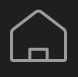
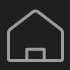
dark theme added

diff --git a/home.html b/home.html
@@ -24,20 +24,25 @@
     </video></a></a>
 
 
-  <div class="footer" onclick="setHomeBallance()">
+  <div class="footer" >
     <div class="menu" >
       <br>
-      <img src="home icon green.jpg" alt="home">
-      <p class="amount" id="footer-ballance">$BALLANCE</p>
+      <img src="home green dark.jpg" alt="home" onclick="darkTheme(whiteFooter2)">
+      <p class="amount" id="footer-ballance" style="color: #52CD86;">$BALLANCE</p>
     </div>
-
-   
     
-    
-      <img src="my bets icon.jpg" alt="my bets" class="my-bets">
+      <img src="my bets dark green.jpg" alt="my bets" class="my-bets" onclick="setHomeBallance()">
       
-  
+  </div>
+
+  <div class="footer white-theme2" style="background-color: #DDDDDD; ">
+    <div class="menu" >
+      <br>
+      <img src="home green light.jpg" alt="home"  onclick="darkTheme(whiteFooter2)">
+      <p class="amount" id="footer-ballance2" style="color: #126D52;">$BALLANCE</p>
+    </div>
     
+      <img src="my bets light white.jpg" alt="my bets" class="my-bets" onclick="setHomeBallance()">
       
   </div>
   <script src="generator.js"></script>

diff --git a/generator.js b/generator.js
@@ -23,6 +23,7 @@ let newTeamTwoScore = document.getElementById('event-two-score-gen')
 
 let balance = document.getElementById('Account-balance');
 let footerBallance = document.getElementById('footer-ballance');
+let footerBallance2 = document.getElementById('footer-ballance2');
 
 let balanceValue = parseFloat(balance.innerText)
 let settledEventName1s = document.getElementById('settled1')
@@ -191,6 +192,12 @@ function addBackgroundColor(variable){
   variable.classList.toggle("green-background")
 }
 
+let whiteFooter = document.querySelector('.white-theme')
+let whiteFooter2 = document.querySelector('.white-theme2')
+
+function darkTheme(variable){
+  variable.classList.toggle("dark-theme")
+}
    
 
    function setHomeBallance(){
@@ -199,6 +206,7 @@ function addBackgroundColor(variable){
     let home = document.getElementById('Account-balance')
     home.innerHTML = ` $${balance}`
     footerBallance.innerHTML = ` $${balance}`
+    footerBallance2.innerHTML =  ` $${balance}`
    }
 
    function settledBallance(){

diff --git a/index.html b/index.html
@@ -304,15 +304,28 @@
     <div class="menu">
       
       <br>
-      <img src="home icon green.jpg" alt="home">
+      <img src="home icon green.jpg" alt="home" onclick="darkTheme(whiteFooter)">
       <p class="amount" id="footer-ballance">$BALLANCE</p>
+    
+    </div>
+    
+      <img src="my bets icon.jpg" alt="my bets" class="my-bets">
+      
+  </div>
+
+  <div class="footer white-theme" style="background-color: #DDDDDD; ">
+    <div class="menu">
+      
+      <br>
+      <img src="home white light.jpg" alt="home"  onclick="darkTheme(whiteFooter)">
+      <p class="amount" id="footer-ballance2" style="color: #5c5c5c;">$BALLANCE</p>
     
     </div>
 
    
     
     
-      <img src="my bets icon.jpg" alt="my bets" class="my-bets">
+      <img src="my bets green light.jpg" alt="my bets" class="my-bets">
       
   
     

diff --git a/bet365.css b/bet365.css
@@ -265,7 +265,12 @@ h3{
   top: 0;
   left: 0;
   width: 100vw;
-  height: 105vh;
+  height: 103vh;
   z-index: -3;
   object-fit:fill;
+}
+.dark-theme{
+  z-index:-2 ;
+  display: none;
+
 }
